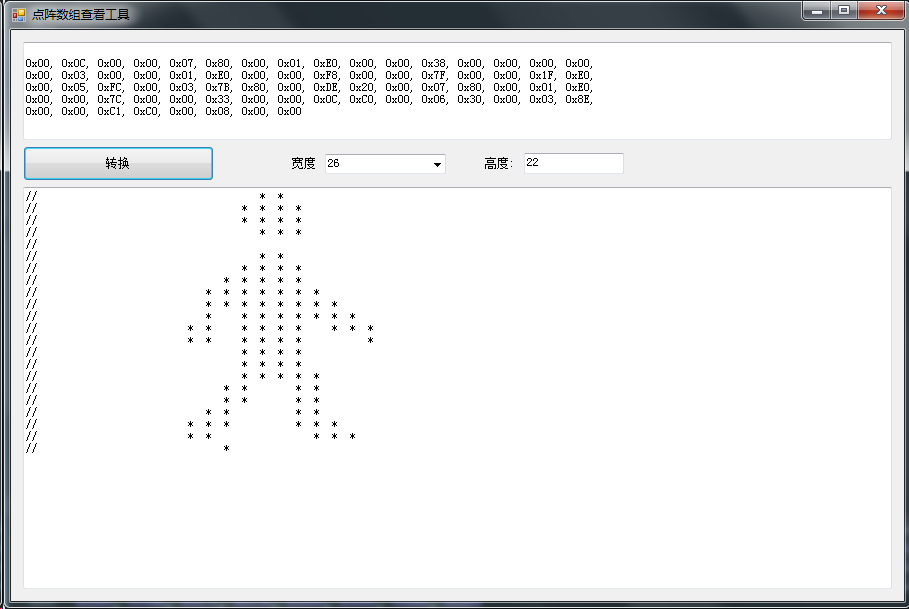
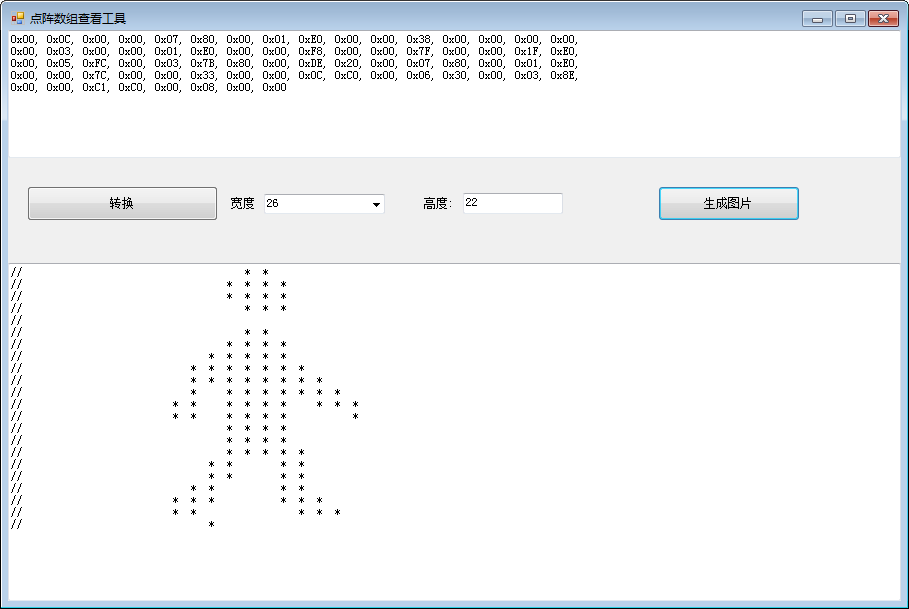
1.change bgcolor to Transparent   2.updata demo img

diff --git a/WindowsFormstest/Form1.cs b/WindowsFormstest/Form1.cs
@@ -156,7 +156,7 @@ namespace WindowsFormstest
                         }
                         else
                         {
-                            bmp.SetPixel(i, j, Color.White);
+                            bmp.SetPixel(i, j, Color.Transparent);
                         }
                     }
                 }

diff --git a/README.md b/README.md
@@ -15,3 +15,5 @@
 转换输出：
 
 ![demo](https://github.com/superhaowei/DotMatrixDataDisplay/blob/master/demo.png)
+
+![img](https://github.com/superhaowei/DotMatrixDataDisplay/blob/master/2018_11_26_26x22.bmp)
